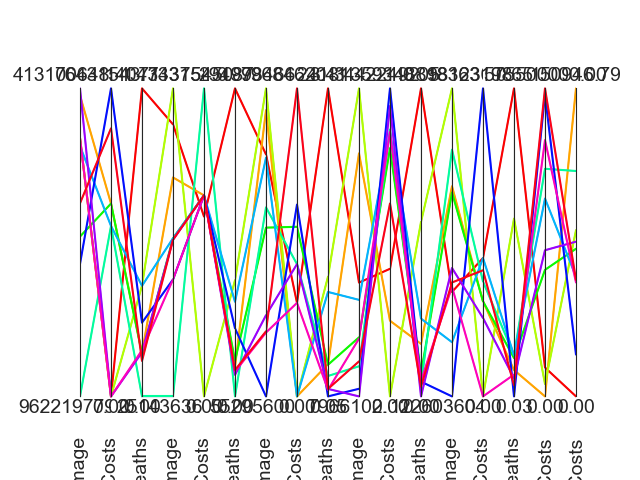
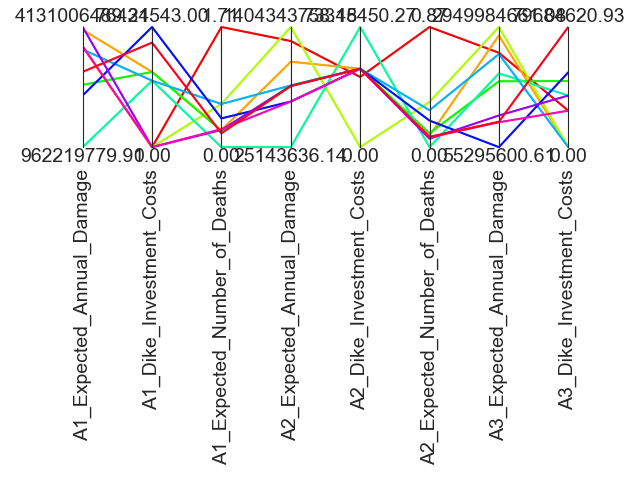
Update figures

diff --git a/final assignment/multi_MORDM_robustness.py b/final assignment/multi_MORDM_robustness.py
@@ -121,13 +121,12 @@ if __name__ == "__main__":
     max_regret = max_regret[['A1_Expected_Annual_Damage', 'A1_Dike_Investment_Costs',
                              'A1_Expected_Number_of_Deaths', 'A2_Expected_Annual_Damage',
                              'A2_Dike_Investment_Costs', 'A2_Expected_Number_of_Deaths',
-                             'A3_Expected_Annual_Damage', 'A3_Dike_Investment_Costs',
-                             'A3_Expected_Number_of_Deaths',
-                             'A4_Expected_Annual_Damage', 'A4_Dike_Investment_Costs',
-                             'A4_Expected_Number_of_Deaths',
-                             'A5_Expected_Annual_Damage', 'A5_Dike_Investment_Costs',
-                             'A5_Expected_Number_of_Deaths',
-                             'RfR_Total_Costs', 'Expected_Evacuation_Costs']]
+                             'A3_Expected_Annual_Damage', 'A3_Dike_Investment_Costs']]#,
+                             #'A3_Expected_Number_of_Deaths', 'A4_Expected_Annual_Damage',
+                             # 'A4_Dike_Investment_Costs', 'A4_Expected_Number_of_Deaths',
+                             # 'A5_Expected_Annual_Damage', 'A5_Dike_Investment_Costs',
+                             # 'A5_Expected_Number_of_Deaths', 'RfR_Total_Costs',
+                             # 'Expected_Evacuation_Costs']]
 
     limits = parcoords.get_limits(max_regret)
     paraxes = parcoords.ParallelAxes(max_regret)
@@ -155,7 +154,7 @@ if __name__ == "__main__":
 
     # let's resize the figure
     fig = plt.gcf()
-    fig.set_size_inches(10, 8)
+    fig.set_size_inches(12, 6)
 
     plt.show()
 
